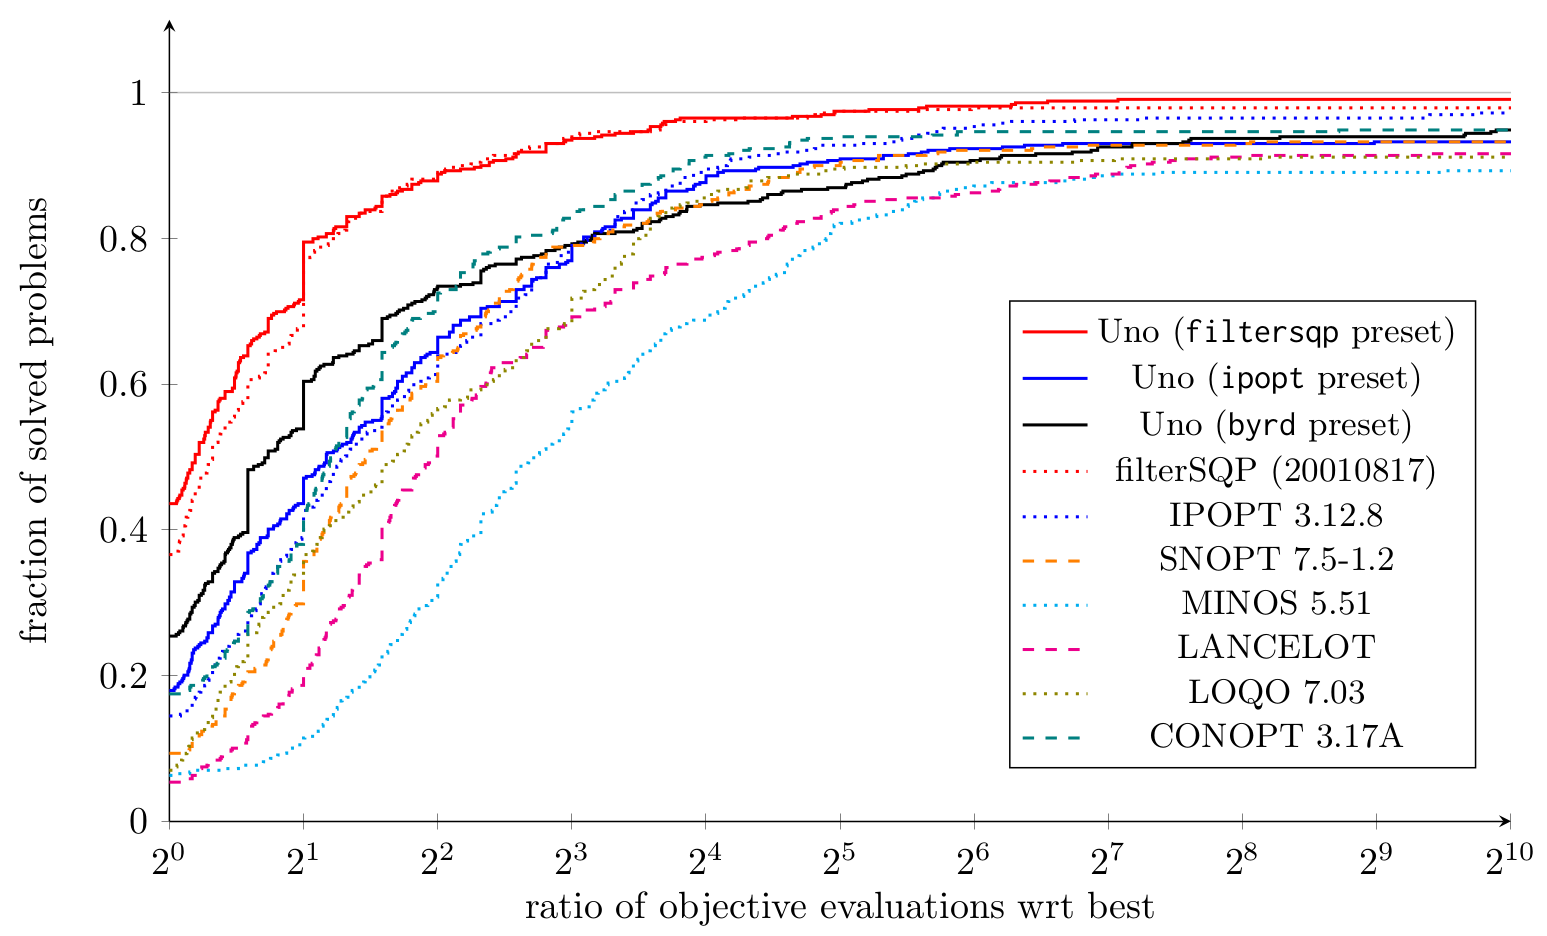
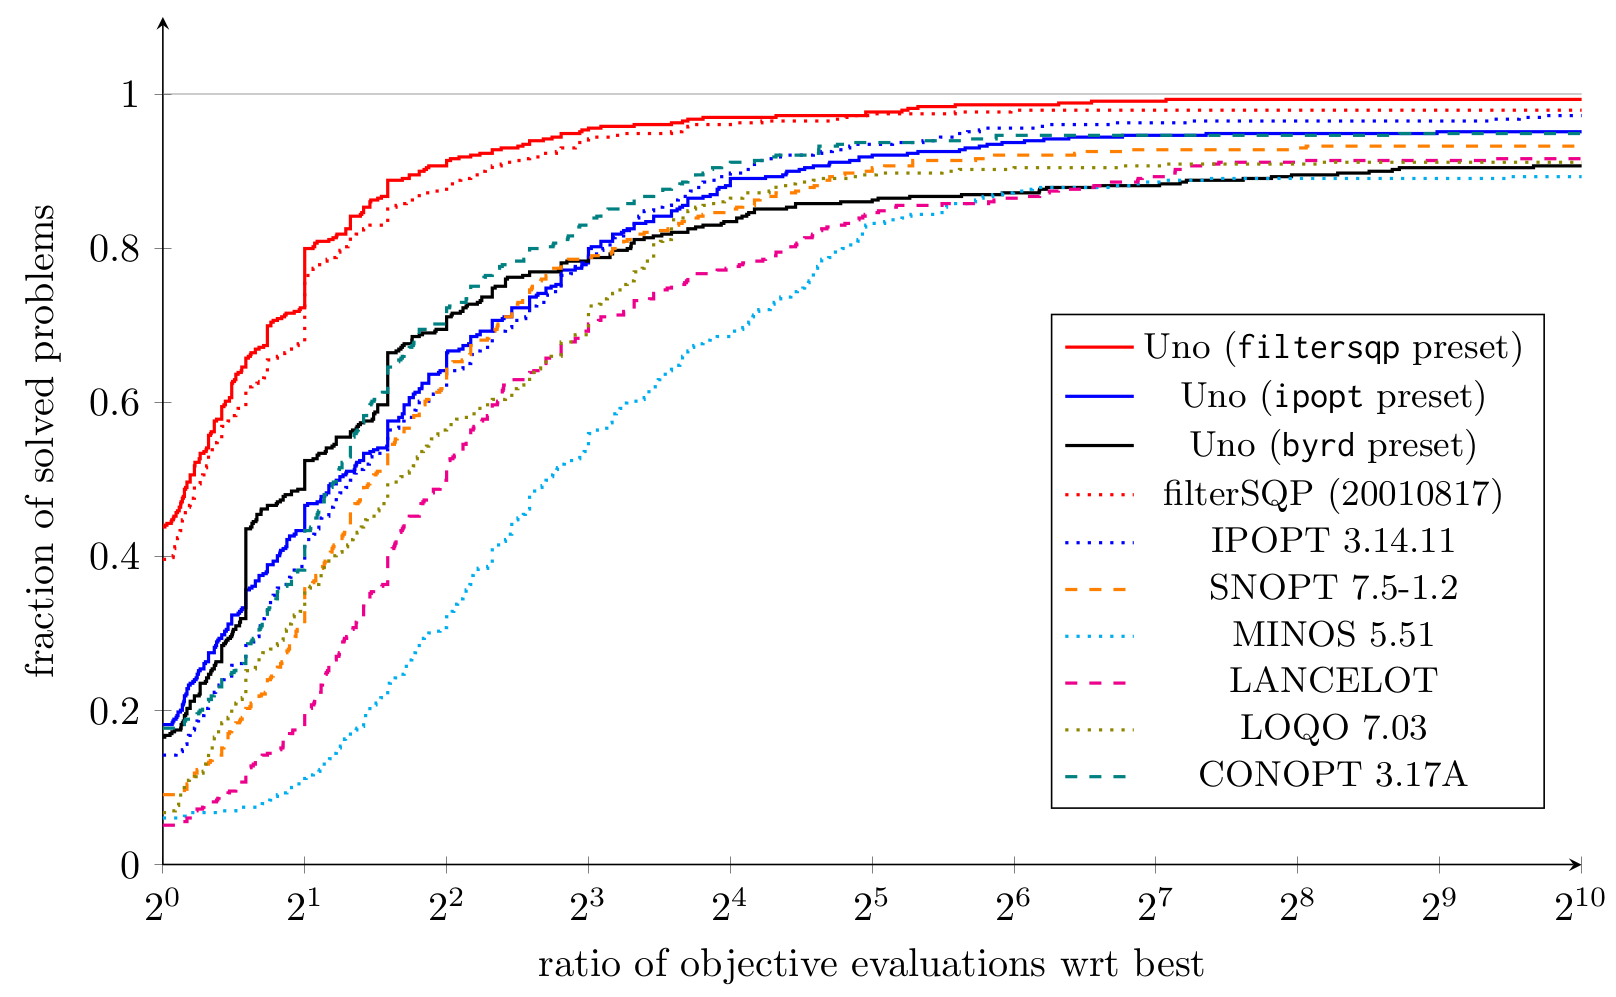
Updated latest results in README

diff --git a/README.md b/README.md
@@ -51,13 +51,13 @@ Uno 1.0.0 implements three **presets**, that is strategy combinations that corre
 * `ipopt` mimics IPOPT (line-search feasibility restoration filter barrier method);
 * `byrd` mimics Byrd's S $\ell_1$ QP (line-search $\ell_1$ merit S $\ell_1$ QP method).
 
-## Latest results (April 27, 2023)
+## Latest results (September 26, 2024)
 
 Some of Uno combinations that correspond to existing solvers (called presets, see below) have been tested against state-of-the-art solvers on 429 small problems of the [CUTEst benchmark](https://arnold-neumaier.at/glopt/coconut/Benchmark/Library2_new_v1.html).
 The figure below is a performance profile of Uno and state-of-the-art solvers filterSQP, IPOPT, SNOPT, MINOS, LANCELOT, LOQO and CONOPT; it shows how many problems are solved for a given budget of function evaluations (1 time, 2 times, 4 times, ..., $2^x$ times the number of objective evaluations of the best solver for each instance).
 
 <p align="center">
-   <img src="docs/figures/uno_performance_profile.png" alt="Performance profile of Uno 1.0.0" width="75%" />
+   <img src="docs/figures/uno_performance_profile.png" alt="Performance profile of Uno 1.1.0" width="75%" />
 </p>
 
 All log files can be found [here](https://github.com/cvanaret/nonconvex_solver_comparison).
